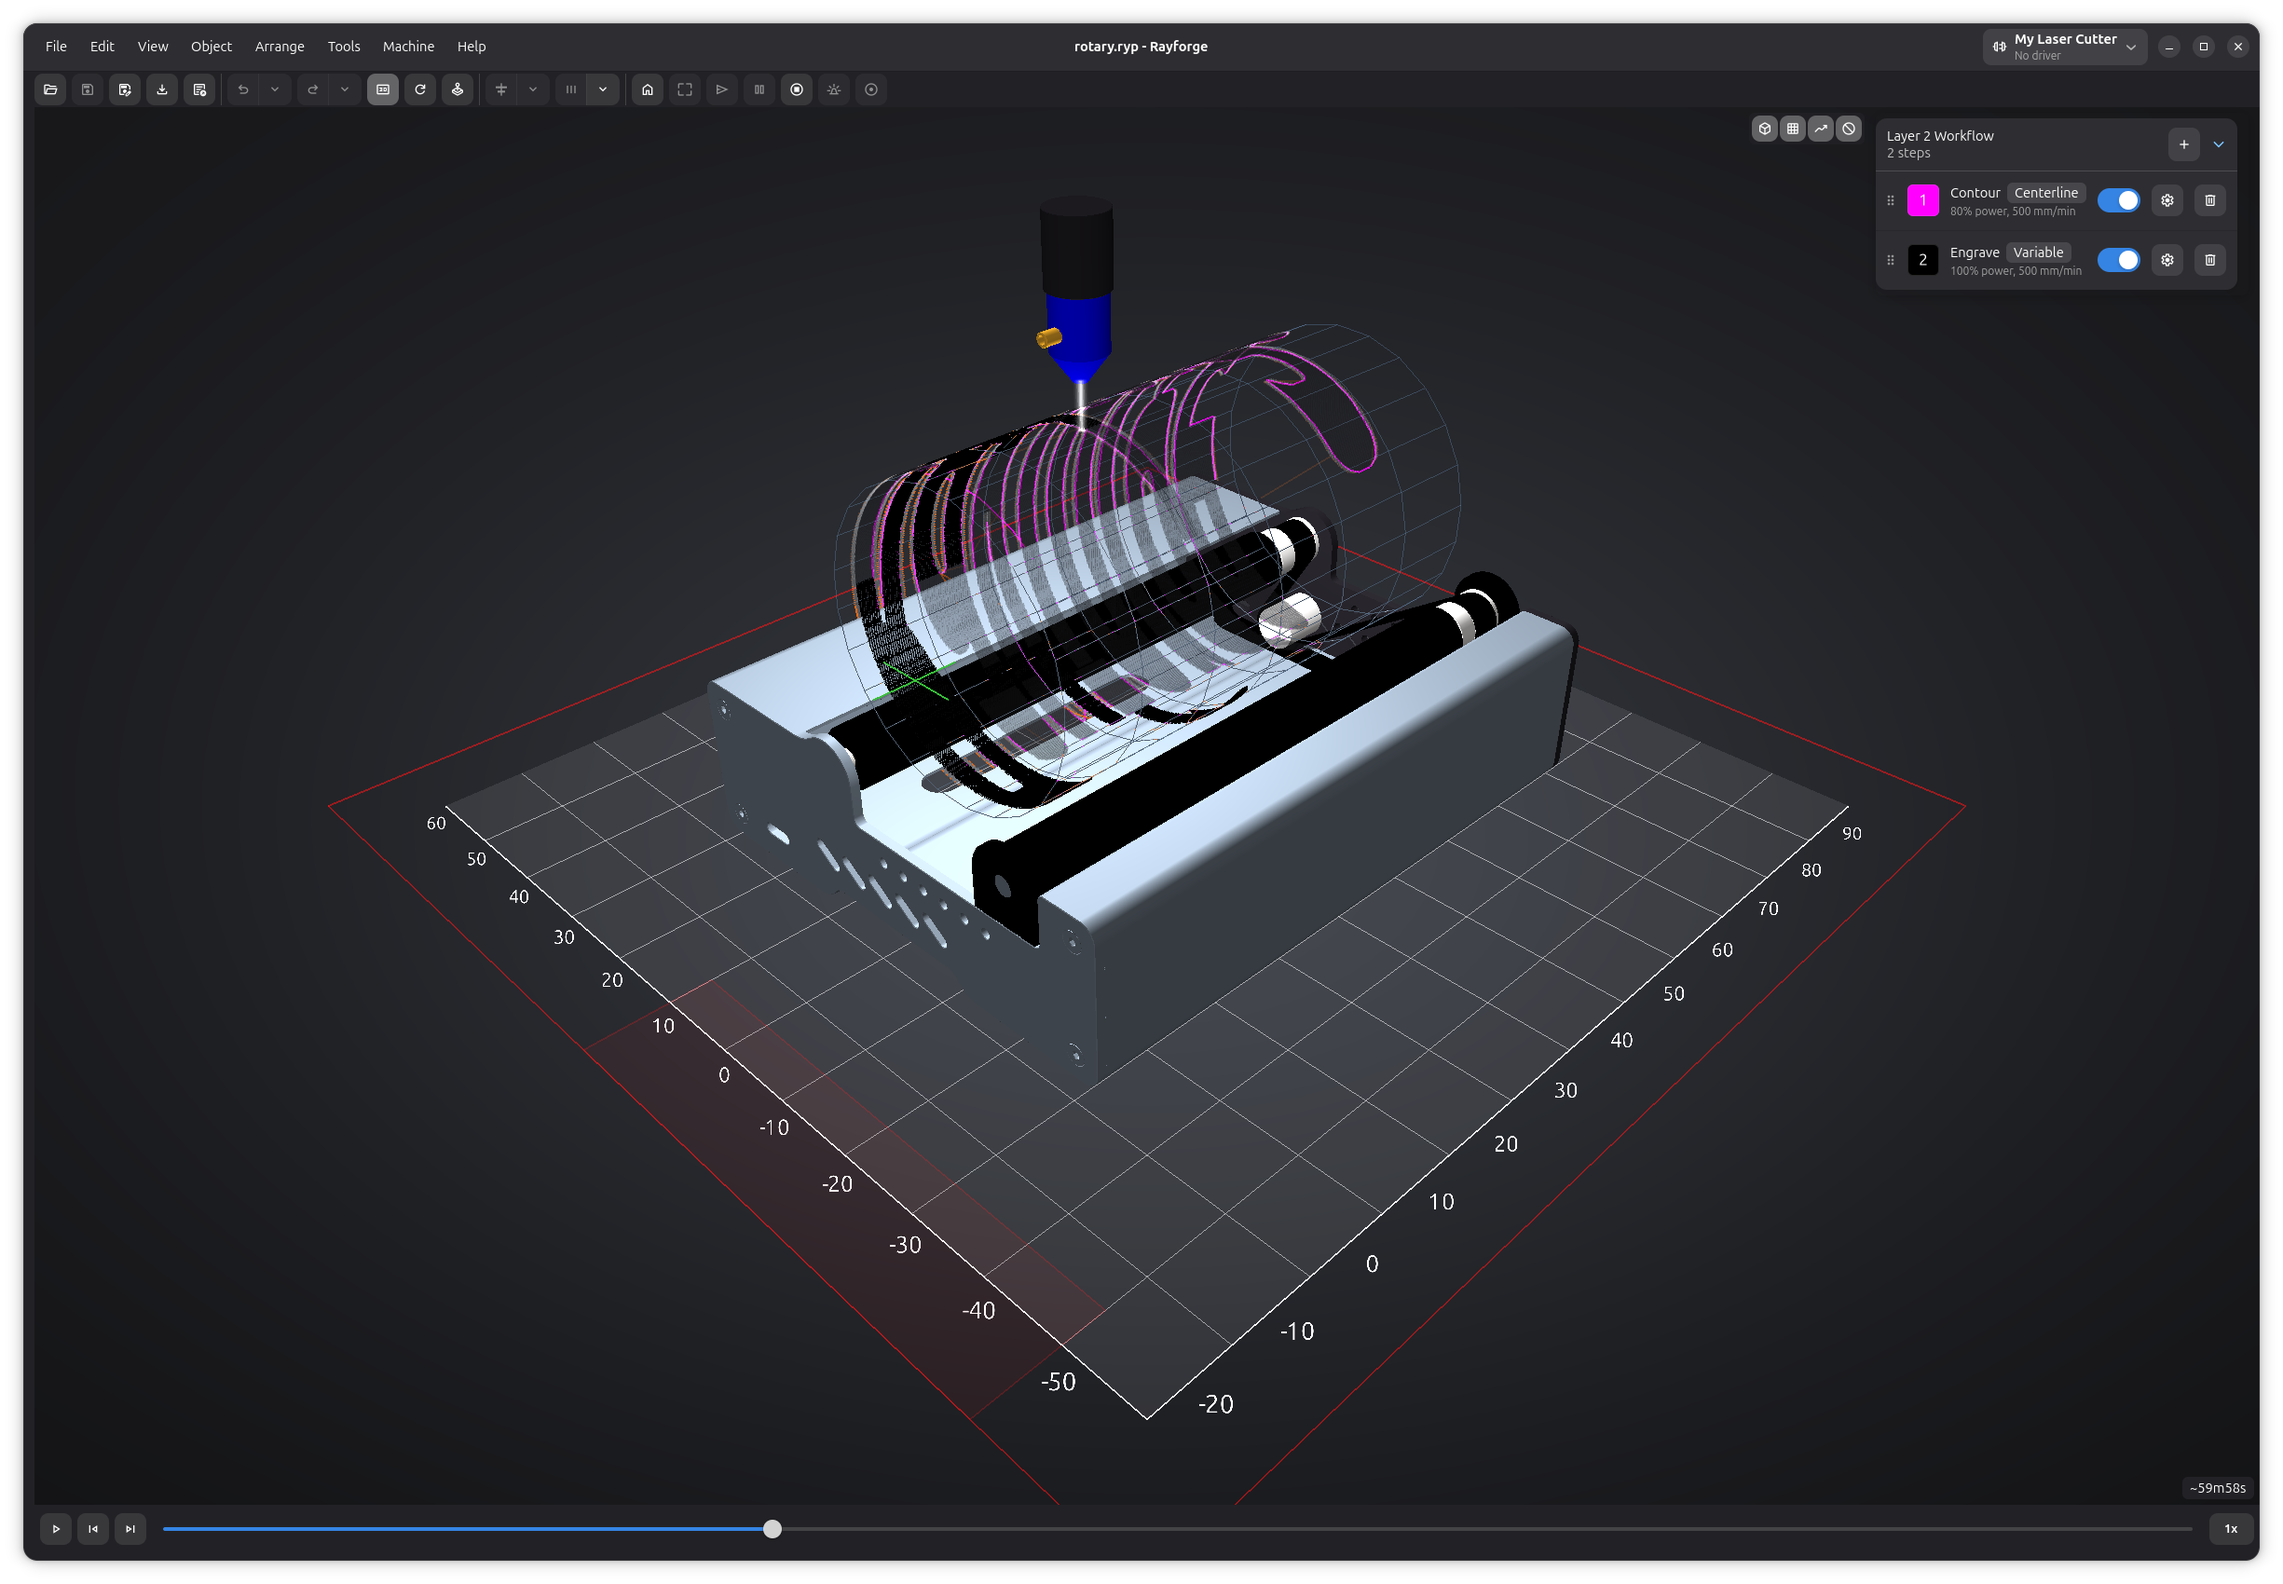
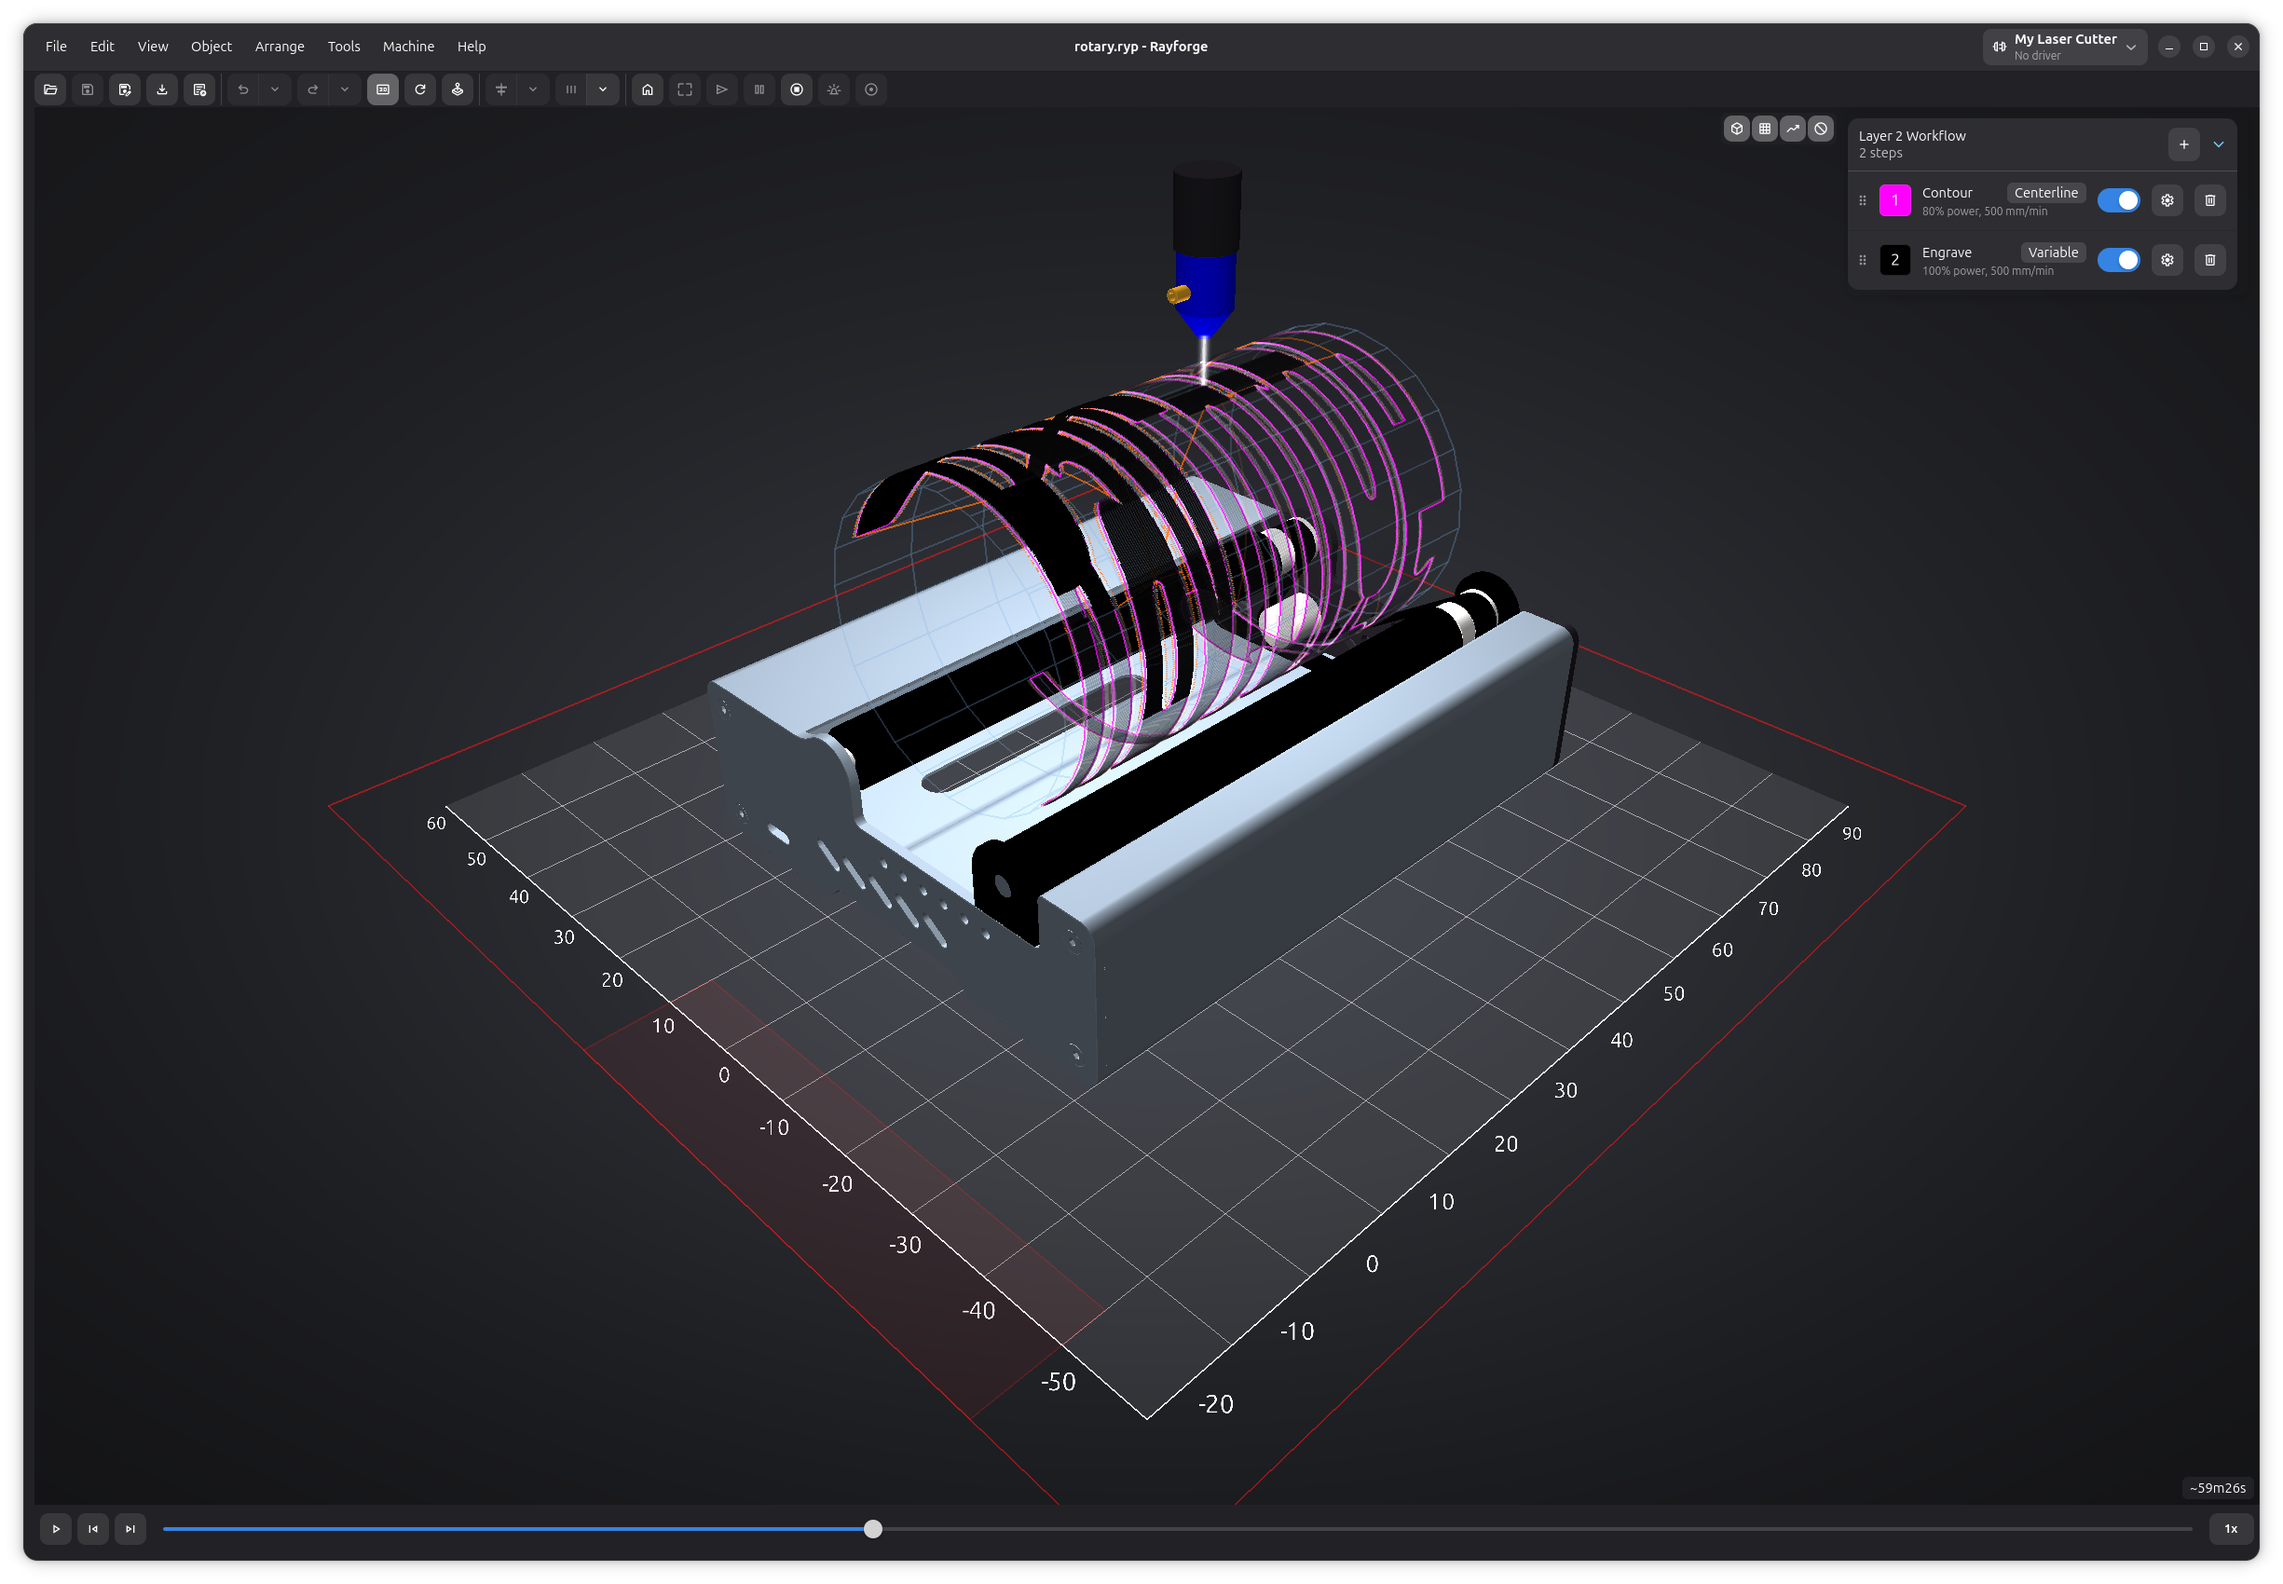
fix(sim3d): depth-test toolpath and scanline trail against models
Use a small depth bias toward the camera instead of GL_ALWAYS so the
toolpath and scanline trail win against the coplanar raster texture
while the laser head model occludes them.  Also prepare the laser beam
before the model renderers so the point light reaches them again.

Changed region(s): [[0.3722, 0.1559, 0.6514, 0.53], [0.8065, 0.0624, 0.9306, 0.1871], [0.7445, 0.0624, 0.7755, 0.0935]]

diff --git a/tests/ui_gtk/sim3d/test_gl_utils.py b/tests/ui_gtk/sim3d/test_gl_utils.py
@@ -1,0 +1,70 @@
+"""Tests for the shared sim3d GL helpers in gl_utils."""
+
+import numpy as np
+import pytest
+
+from rayforge.ui_gtk.sim3d.gl_utils import (
+    LINE_DEPTH_BIAS_MM,
+    line_depth_bias,
+)
+
+
+def _perspective_proj(near=0.1, far=10000.0, f=1.0):
+    """Builds a perspective projection matrix like Camera's."""
+    return np.array(
+        [
+            [f, 0.0, 0.0, 0.0],
+            [0.0, f, 0.0, 0.0],
+            [
+                0.0,
+                0.0,
+                (far + near) / (near - far),
+                (2 * far * near) / (near - far),
+            ],
+            [0.0, 0.0, -1.0, 0.0],
+        ],
+        dtype=np.float32,
+    )
+
+
+def _ortho_proj(near=0.1, far=10000.0):
+    """Builds an orthographic projection matrix like Camera's."""
+    return np.array(
+        [
+            [1.0, 0.0, 0.0, 0.0],
+            [0.0, 1.0, 0.0, 0.0],
+            [0.0, 0.0, -2.0 / (far - near), -(far + near) / (far - near)],
+            [0.0, 0.0, 0.0, 1.0],
+        ],
+        dtype=np.float32,
+    )
+
+
+@pytest.mark.ui
+def test_line_depth_bias_is_negative_for_perspective():
+    """A perspective projection maps view z to clip z with a ~-1 slope,
+    so the bias must be negative (moves fragments toward the camera)."""
+    bias = line_depth_bias(_perspective_proj())
+    assert bias < 0.0
+    assert bias == pytest.approx(-LINE_DEPTH_BIAS_MM, rel=1e-3)
+
+
+@pytest.mark.ui
+def test_line_depth_bias_scales_with_view_depth_slope():
+    """The bias must equal proj[2][2] * LINE_DEPTH_BIAS_MM so the
+    resulting clip-space offset is a constant view-space shift for both
+    projection types."""
+    proj = _perspective_proj()
+    expected = proj[2, 2] * LINE_DEPTH_BIAS_MM
+    assert line_depth_bias(proj) == pytest.approx(float(expected))
+
+
+@pytest.mark.ui
+def test_line_depth_bias_is_negative_for_ortho():
+    """Orthographic projections also map farther points to larger clip
+    z, so the bias stays negative."""
+    bias = line_depth_bias(_ortho_proj())
+    assert bias < 0.0
+    assert bias == pytest.approx(
+        float(_ortho_proj()[2, 2]) * LINE_DEPTH_BIAS_MM
+    )

diff --git a/rayforge/ui_gtk/sim3d/renderer/ring_buffer_renderer.py b/rayforge/ui_gtk/sim3d/renderer/ring_buffer_renderer.py
@@ -14,7 +14,7 @@ from OpenGL import GL
 
 from ....simulator.scene3d import ScanlineOverlayLayer
 from ...shared.color_lut_provider import ColorLutProvider
-from ..gl_utils import ShaderSet, set_line_width
+from ..gl_utils import ShaderSet, line_depth_bias, set_line_width
 from ..render_context import RenderContext
 from .base import BaseRenderer
 
@@ -258,12 +258,15 @@ class RingBufferRenderer(BaseRenderer):
         GL.glBindTexture(GL.GL_TEXTURE_2D, self._color_lut_texture)
         shader.set_int("uColorLUT", 1)
 
-        # The scanline trail must always draw on top of the toolpath and
-        # the raster texture; never cull it by surface depth (which would
-        # let travel lines or the texture's depth split the trail on a
-        # cylinder).  Depth writes stay off so later geometry is unaffected.
-        GL.glDepthFunc(GL.GL_ALWAYS)
+        # The scanline trail must draw on top of the toolpath and the
+        # raster texture; bias its depth a hair toward the camera so it
+        # always wins against the coplanar surface (which would let
+        # travel lines or the texture's depth split the trail on a
+        # cylinder) while the laser head model still occludes it.
+        # Depth writes stay off so later geometry is unaffected.
+        GL.glDepthFunc(GL.GL_LEQUAL)
         GL.glDepthMask(GL.GL_FALSE)
+        shader.set_float("uDepthBias", line_depth_bias(ctx.camera.proj_matrix))
         set_line_width(line_width)
         GL.glBindVertexArray(self.vao)
         GL.glDrawArrays(GL.GL_LINES, 0, draw_count)

diff --git a/rayforge/ui_gtk/sim3d/renderer/ops_renderer.py b/rayforge/ui_gtk/sim3d/renderer/ops_renderer.py
@@ -10,7 +10,7 @@ from OpenGL import GL
 
 from ....simulator.scene3d import VertexLayer
 from ...shared.color_lut_provider import ColorLutProvider
-from ..gl_utils import ShaderSet, set_line_width
+from ..gl_utils import ShaderSet, line_depth_bias, set_line_width
 from ..render_context import RenderContext
 from .base import BaseRenderer
 
@@ -338,12 +338,15 @@ class OpsRenderer(BaseRenderer):
         shader.use()
         GL.glEnable(GL.GL_BLEND)
         GL.glBlendFunc(GL.GL_SRC_ALPHA, GL.GL_ONE_MINUS_SRC_ALPHA)
-        # The toolpath draws on top of the raster texture; never cull it
-        # by the surface depth (which would split lines on a cylinder's
-        # curved face).  Depth writes stay off so the trail/ring drawn
-        # afterwards is unaffected.
+        # The toolpath draws on top of the raster texture; bias its
+        # depth a hair toward the camera so it always wins against the
+        # coplanar surface (which would split lines on a cylinder's
+        # curved face) while the laser head model still occludes it.
+        # Depth writes stay off so the trail/ring drawn afterwards is
+        # unaffected.
         GL.glDepthMask(GL.GL_FALSE)
-        GL.glDepthFunc(GL.GL_ALWAYS)
+        GL.glDepthFunc(GL.GL_LEQUAL)
+        shader.set_float("uDepthBias", line_depth_bias(ctx.camera.proj_matrix))
         shader.set_mat4("uMVP", mvp)
         shader.set_float("uHasNormals", 0.0)
 

diff --git a/tests/ui_gtk/sim3d/renderer/test_ops_renderer.py b/tests/ui_gtk/sim3d/renderer/test_ops_renderer.py
@@ -211,7 +211,7 @@ def test_render_draws_powered_and_travel(renderer, colors):
         patch("OpenGL.GL.glBlendFunc"),
         patch("OpenGL.GL.glActiveTexture"),
         patch("OpenGL.GL.glBindTexture"),
-        patch("OpenGL.GL.glDepthFunc"),
+        patch("OpenGL.GL.glDepthFunc") as mock_depth_func,
         patch("OpenGL.GL.glDepthMask"),
         patch("OpenGL.GL.glDrawArrays") as mock_draw,
         patch("rayforge.ui_gtk.sim3d.renderer.ops_renderer.set_line_width"),
@@ -221,6 +221,12 @@ def test_render_draws_powered_and_travel(renderer, colors):
     assert mock_draw.call_count == 2
     shader.use.assert_called_once()
     shader.set_mat4.assert_called_once_with("uMVP", mvp)
+    # The toolpath must depth-test against the laser head model instead
+    # of always drawing on top; a small bias keeps it above the
+    # coplanar raster texture.  0x0203 is GL.GL_LEQUAL (no GL import
+    # in tests).
+    assert mock_depth_func.call_args[0][0] == 0x0203
+    shader.set_float.assert_any_call("uDepthBias", 2.0)
 
 
 @pytest.mark.ui

diff --git a/rayforge/ui_gtk/sim3d/gl_utils.py b/rayforge/ui_gtk/sim3d/gl_utils.py
@@ -57,6 +57,26 @@ def set_line_width(requested: float) -> None:
     GL.glLineWidth(clamped)
 
 
+# Toolpath and scanline-trail lines lie exactly on the workpiece
+# surface, so a plain depth test would z-fight with the raster texture
+# (and the faceted cylinder mesh).  We bias the lines' depth a couple
+# of millimetres toward the camera instead: large enough to always win
+# against the coplanar surface, small enough that the laser head model
+# (which sits well above the surface) still occludes them.
+LINE_DEPTH_BIAS_MM = 2.0
+
+
+def line_depth_bias(proj_matrix: np.ndarray) -> float:
+    """Returns the clip-space z bias for surface-coplanar lines.
+
+    The projection's [2][2] entry maps view-space z to clip-space z
+    linearly, so multiplying it by the desired view-space bias gives
+    the exact clip-space offset for both perspective and orthographic
+    projections.
+    """
+    return float(proj_matrix[2, 2]) * LINE_DEPTH_BIAS_MM
+
+
 @dataclass
 class ShaderSet:
     """

diff --git a/tests/ui_gtk/sim3d/renderer/test_scene_renderer_init.py b/tests/ui_gtk/sim3d/renderer/test_scene_renderer_init.py
@@ -171,3 +171,24 @@ def test_render_registry_orders_rings_after_texture():
     # The toolpath draws above the raster texture but below the trail.
     assert ops_index > texture_index
     assert ops_index < ring_index
+
+
+def test_prepare_runs_laser_beam_before_models():
+    """The laser beam publishes the point-light position that the model
+    renderers consume, so its prepare phase must run first even though
+    it draws last."""
+    scene = SceneRenderer()
+    laser = MagicMock()
+    scene.laser_beam_renderer = laser
+    model = MagicMock()
+    scene.model_renderers = [model]
+    scene.ring_renderers = [MagicMock()]
+    scene._rebuild_registry()
+
+    prepare_order = []
+    laser.prepare.side_effect = lambda *a, **k: prepare_order.append("laser")
+    model.prepare.side_effect = lambda *a, **k: prepare_order.append("model")
+
+    scene.prepare(MagicMock())
+
+    assert prepare_order == ["laser", "model"]

diff --git a/tests/ui_gtk/sim3d/renderer/test_ring_buffer_renderer.py b/tests/ui_gtk/sim3d/renderer/test_ring_buffer_renderer.py
@@ -75,7 +75,7 @@ def test_render_publishes_ring_exec_count():
         patch("OpenGL.GL.glBindVertexArray"),
         patch("OpenGL.GL.glBindTexture"),
         patch("OpenGL.GL.glActiveTexture"),
-        patch("OpenGL.GL.glDepthFunc"),
+        patch("OpenGL.GL.glDepthFunc") as mock_depth_func,
         patch("OpenGL.GL.glDepthMask"),
         patch("OpenGL.GL.glDrawArrays"),
         patch(_SET_LINE_WIDTH),
@@ -83,6 +83,11 @@ def test_render_publishes_ring_exec_count():
         ring.render(ctx, ShaderSet(main=shader))
 
     assert ctx.playback.executed_vertex_count == 1
+    # The trail must depth-test against the laser head model instead of
+    # always drawing on top; a small bias keeps it above the coplanar
+    # raster texture.  0x0203 is GL.GL_LEQUAL (no GL import in tests).
+    assert mock_depth_func.call_args[0][0] == 0x0203
+    shader.set_float.assert_any_call("uDepthBias", 2.0)
 
 
 @pytest.mark.ui

diff --git a/rayforge/ui_gtk/sim3d/shader/simple_shader.py b/rayforge/ui_gtk/sim3d/shader/simple_shader.py
@@ -11,6 +11,7 @@ layout (location = 2) in vec3 aNormal;
 uniform mat4 uMVP;
 uniform vec3 uPartialEnd;
 uniform int uPartialVertexID;
+uniform float uDepthBias;
 out vec4 vColor;
 out vec3 vNormal;
 out vec3 vPos;
@@ -21,6 +22,7 @@ void main() {
         pos = uPartialEnd;
     }
     gl_Position = uMVP * vec4(pos, 1.0);
+    gl_Position.z += uDepthBias;
     vColor = aColor;
     vNormal = aNormal;
     vPos = pos;
@@ -131,3 +133,4 @@ class SimpleShader(Shader):
         self.set_vec4("uZeroPowerColor", (0.0, 0.0, 0.0, 1.0))
         self.set_float("uPointLightOn", 0.0)
         self.set_vec3("uPointLightPos", (0.0, 0.0, 0.0))
+        self.set_float("uDepthBias", 0.0)

diff --git a/rayforge/ui_gtk/sim3d/renderer/scene_renderer.py b/rayforge/ui_gtk/sim3d/renderer/scene_renderer.py
@@ -625,7 +625,14 @@ class SceneRenderer(BaseRenderer):
         that frame-level cross-dependencies (e.g. the laser point light
         feeding the model renderers) resolve before any draw.
         """
+        # The laser beam publishes the point-light position that the
+        # model renderers consume, so it must be prepared first even
+        # though it draws last.
+        if self.laser_beam_renderer is not None:
+            self.laser_beam_renderer.prepare(ctx)
         for renderer, _ in self.render_registry:
+            if renderer is self.laser_beam_renderer:
+                continue
             renderer.prepare(ctx)
 
     def render(

diff --git a/scripts/screenshot/main_3d_rotary.py b/scripts/screenshot/main_3d_rotary.py
@@ -80,7 +80,7 @@ def main():
         run_on_main_thread(_set_perspective)
         time.sleep(0.5)
 
-        seek_3d_playback(win, 0.3)
+        seek_3d_playback(win, 0.35)
 
         clear_window_subtitle(win)
         logger.info("Taking screenshot: main-3d-rotary.png")
